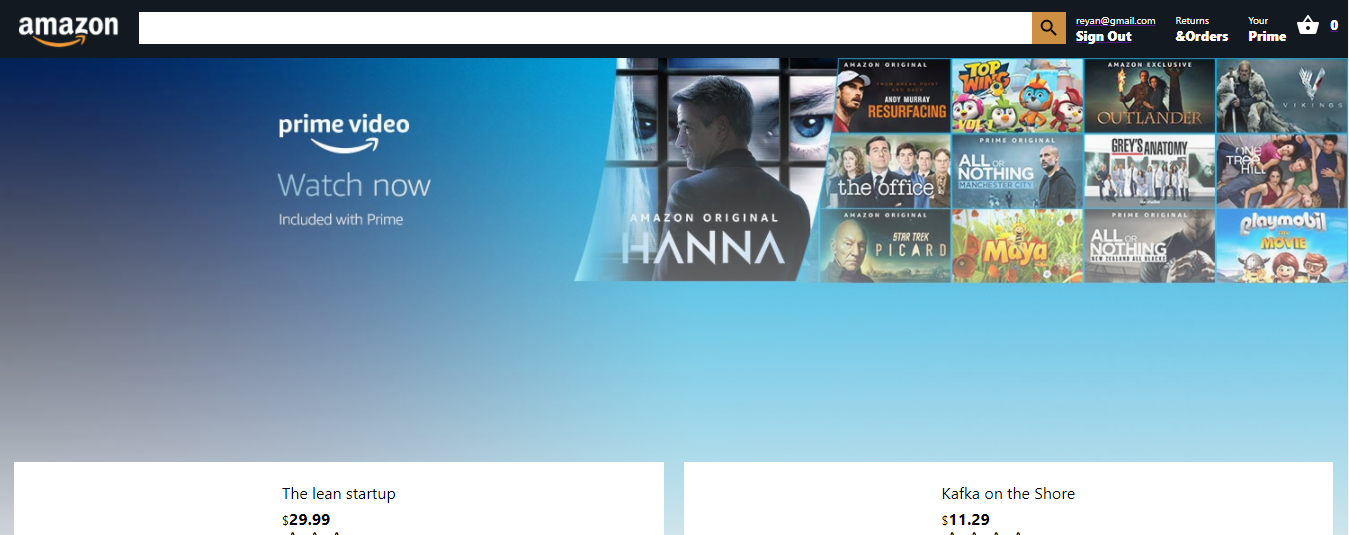
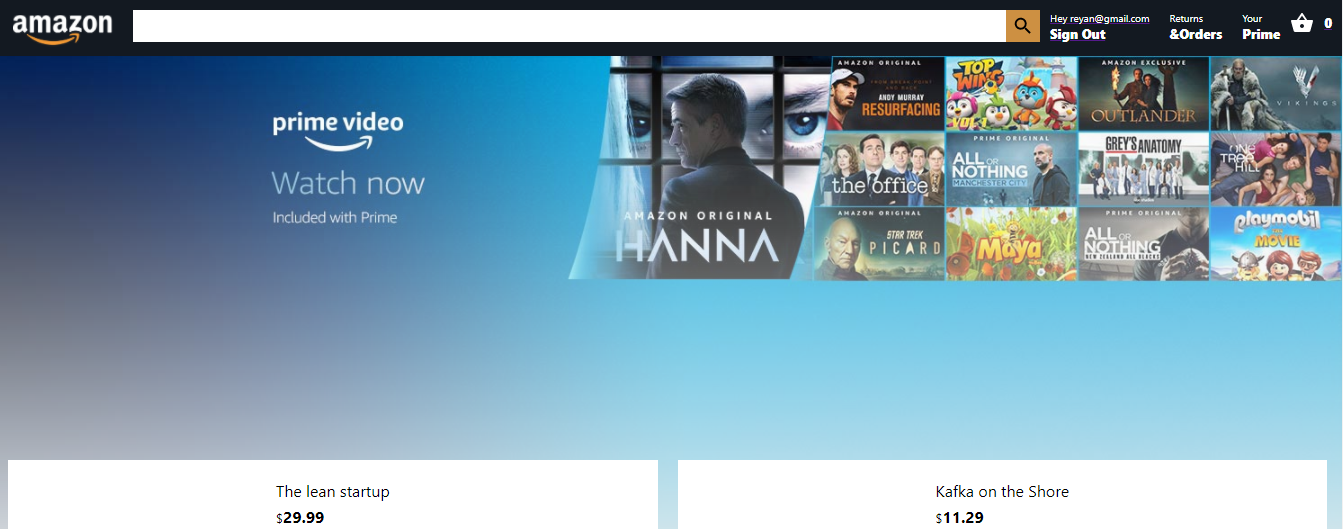
update

diff --git a/amazon-clone/src/Header.js b/amazon-clone/src/Header.js
@@ -34,7 +34,7 @@ function Header() {
         <Link to={!user && "/login"}>
           <div onClick={handleAuthentication} className="header_option">
             <span className="header_optionLineOne">
-              {user ? user.email : "Hello Guest"}
+              {user ? "Hey " + user.email : "Hello Guest"}
             </span>
             <span className="header_optionLineTwo">
               {user ? "Sign Out" : "Sign In"}
